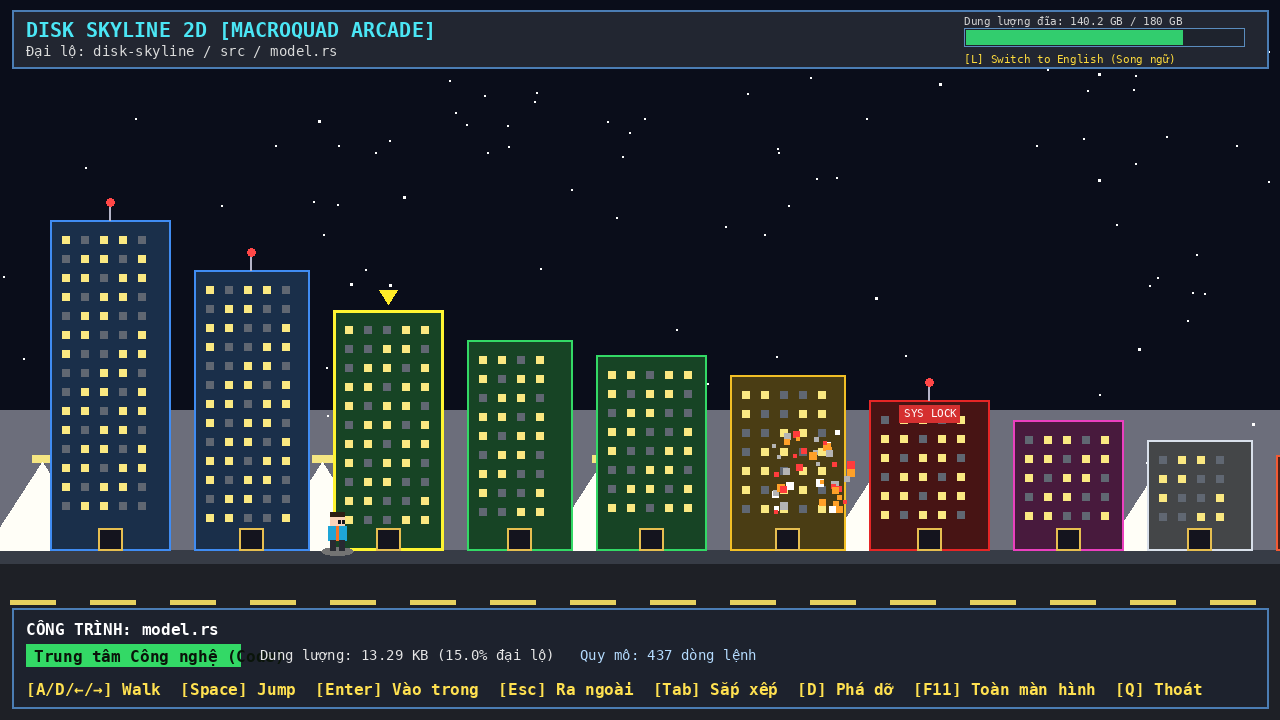
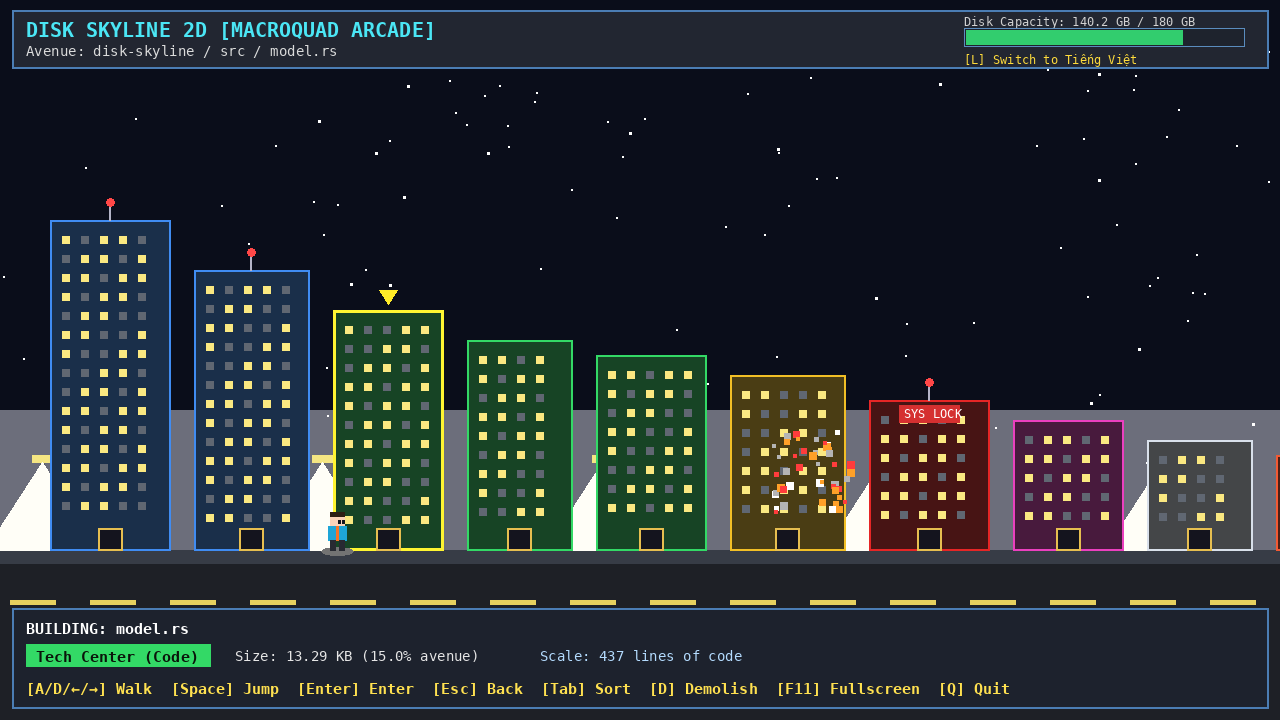
docs(ui): update preview screenshot with spacious English layout and dynamic card spacing

diff --git a/src/gui/render.rs b/src/gui/render.rs
@@ -497,35 +497,54 @@ pub fn render_rpg_hud(
         let cat_col = category_color(cat);
 
         // Building Name & Badge
-        let name_str = format!("CÔNG TRÌNH: {}", node.name);
+        let name_prefix = if lang == Language::Vi {
+            "CÔNG TRÌNH: "
+        } else {
+            "BUILDING: "
+        };
+        let name_str = format!("{}{}", name_prefix, node.name);
         draw_text(&name_str, 24.0, card_y + 26.0, 18.0, WHITE);
 
-        // Category Badge
+        // Category Badge with dynamic width
         let cat_label = cat.display_label_lang(lang);
-        draw_rectangle(24.0, card_y + 35.0, 180.0, 20.0, cat_col);
+        let badge_dim = measure_text(cat_label, None, 13, 1.0);
+        let badge_w = (badge_dim.width + 18.0).max(120.0);
+        draw_rectangle(24.0, card_y + 35.0, badge_w, 20.0, cat_col);
         draw_text(
             cat_label,
-            30.0,
-            card_y + 50.0,
+            32.0,
+            card_y + 49.0,
             13.0,
             Color::new(0.05, 0.05, 0.05, 1.0),
         );
 
-        // Size & Items info
-        let size_str = format!("Dung lượng: {}", format_bytes(node.size));
+        // Size & Items info dynamically positioned after badge
+        let size_str = if lang == Language::Vi {
+            format!("Dung lượng: {}", format_bytes(node.size))
+        } else {
+            format!("Size: {}", format_bytes(node.size))
+        };
+        let size_x = 24.0 + badge_w + 18.0;
         draw_text(
             &size_str,
-            220.0,
+            size_x,
             card_y + 50.0,
             15.0,
             Color::new(0.9, 0.9, 0.9, 1.0),
         );
 
+        let size_dim = measure_text(&size_str, None, 15, 1.0);
+        let next_x = size_x + size_dim.width + 24.0;
+
         if node.is_dir {
-            let child_str = format!("Quy mô: {} công trình con", node.children.len());
+            let child_str = if lang == Language::Vi {
+                format!("Quy mô: {} công trình con", node.children.len())
+            } else {
+                format!("Scale: {} sub-buildings", node.children.len())
+            };
             draw_text(
                 &child_str,
-                420.0,
+                next_x,
                 card_y + 50.0,
                 15.0,
                 Color::new(0.7, 0.85, 1.0, 1.0),
@@ -533,9 +552,14 @@ pub fn render_rpg_hud(
         }
 
         if node.is_system_protected {
+            let lock_notice = if lang == Language::Vi {
+                "[KHÓA BẢO VỆ HỆ THỐNG - KHÔNG THỂ PHÁ DỠ]"
+            } else {
+                "[SYSTEM PROTECTED LOCK - DEMOLITION FORBIDDEN]"
+            };
             draw_text(
-                "[KHÓA BẢO VỆ HỆ THỐNG - KHÔNG THỂ PHÁ DỠ]",
-                640.0,
+                lock_notice,
+                next_x + 220.0,
                 card_y + 50.0,
                 14.0,
                 Color::new(1.0, 0.3, 0.3, 1.0),
